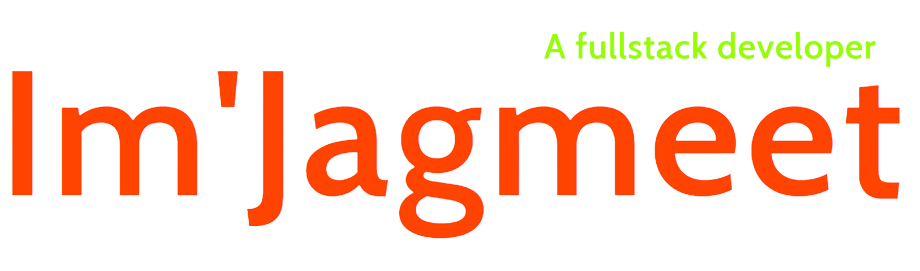
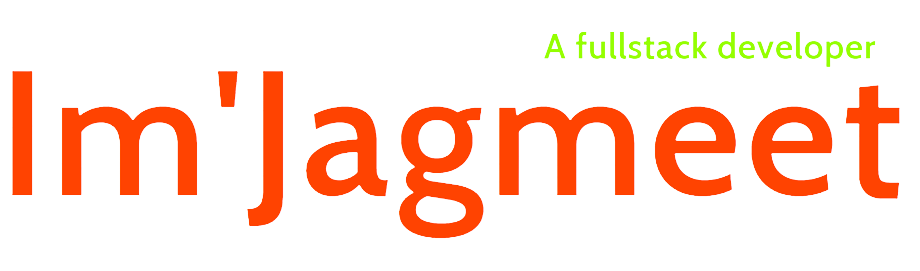
technologies stack completed

diff --git a/src/pages/About.js b/src/pages/About.js
@@ -1,65 +1,56 @@
-import React from "react";
+import React, { useState } from "react";
+import me from "../assets/me.jpeg";
 
 const About = () => {
+  const [isExpanded, setIsExpanded] = useState(false);
   return (
-    <main className=" ">
-      <h3 className=" text-3xl p-10 text-black bg-[--primary-white]">
-        Lorem ipsum dolor sit, amet consectetur adipisicing elit. Debitis,
-        suscipit iusto dolor a sequi officiis voluptas enim placeat nihil nemo
-        totam, delectus facilis, sit recusandae nulla provident! Assumenda quod
-        vitae quam possimus mollitia illum voluptatum! Laborum id distinctio
-        repudiandae voluptatum rerum accusantium aliquid deleniti quod,
-        assumenda quam debitis odit corporis quia ullam natus. Sequi
-        consequuntur quos ea cupiditate voluptatibus esse, at aut harum et.
-        Voluptatem est consequatur sit quo iste quaerat dolores ut, obcaecati
-        enim laudantium, eum ipsum pariatur error rerum eos laboriosam fugit
-        fugiat incidunt numquam eligendi delectus sapiente. Distinctio maxime
-        consequuntur ratione eius sint adipisci atque eaque iusto sapiente sit
-        fugiat obcaecati incidunt culpa facere nemo at, modi dolorum provident
-        consectetur. Veniam et dolor ut, laboriosam deserunt sapiente soluta
-        fugiat ipsam quae sit pariatur assumenda perspiciatis non, numquam, eum
-        suscipit nulla esse recusandae! Accusantium amet, dolorum consectetur
-        tenetur expedita, pariatur, molestias eveniet modi mollitia deserunt
-        asperiores! Laborum tempora aspernatur possimus voluptate consectetur
-        neque provident dignissimos officia est veniam, corrupti officiis iste
-        velit dolore dicta id! Voluptate quibusdam voluptatum quia consequuntur
-        velit beatae fugit hic in veniam quas nesciunt omnis eius recusandae
-        cumque nulla, mollitia laborum debitis autem illo inventore laboriosam
-        nam aliquam. Hic at voluptatibus, aperiam perspiciatis tenetur corrupti
-        nemo minus nisi vel quos itaque eaque facilis voluptatem commodi eveniet
-        provident maiores. Consectetur, reprehenderit temporibus magni facilis
-        atque exercitationem! Ut, amet voluptate. Amet, ex soluta dolore iusto
-        ratione accusamus magnam nam cumque possimus eaque vel omnis eum
-        deleniti cum nesciunt minus iste sit! Sequi expedita excepturi facilis
-        amet debitis culpa vero fuga iusto ipsa consequatur. Enim doloremque
-        voluptate quidem accusamus expedita vel ex facilis quam aspernatur
-        blanditiis reprehenderit aut ipsam esse deserunt ullam tempore rem
-        quasi, et at odit adipisci. Exercitationem corrupti quod sequi,
-        praesentium porro amet ipsum voluptas tempora quia dolorum, at, in
-        dignissimos. Modi sequi omnis, perferendis fugit laboriosam expedita hic
-        quisquam nisi voluptatem! Voluptas, asperiores, in quas illum nam
-        quaerat saepe mollitia eaque dolorum est voluptatem natus? Soluta, quod.
-        Tenetur a accusamus commodi cumque, earum nostrum quidem, inventore
-        fugiat iste animi obcaecati architecto debitis? Molestias,
-        necessitatibus. Aut rerum debitis perspiciatis temporibus quisquam
-        deserunt repellendus distinctio laudantium totam reiciendis, officia
-        animi ratione repellat earum nostrum voluptates enim nesciunt, tempora
-        voluptate iusto reprehenderit? Rerum quis, consequuntur magnam corrupti
-        fugit inventore aspernatur ipsam. Eius, debitis fugit enim dolores
-        provident repellat vero nesciunt, illo pariatur, cupiditate cum. Fugit
-        dicta pariatur neque quidem quis. Sapiente voluptas sit, vero corrupti
-        alias quaerat. Velit, nulla. Assumenda harum maiores, expedita molestiae
-        iusto nemo voluptas, laboriosam eaque sunt deleniti quis, delectus porro
-        architecto. Aperiam tempora sed itaque delectus esse nemo similique quo,
-        nihil distinctio pariatur dolorem aut cupiditate ipsa provident, a minus
-        dolorum nisi magni modi? Quas, unde! Aspernatur doloremque amet sed quia
-        in odit laudantium, totam autem et architecto, est minus, eveniet
-        eligendi minima? Dignissimos tempore sint consequatur, provident debitis
-        asperiores officiis sunt unde alias? Soluta minima numquam eaque quia
-        molestiae est sed quidem, voluptatibus, id expedita, libero inventore
-        voluptates similique neque laudantium nostrum dolor iusto maiores
-        perspiciatis delectus dolorum? Ut, dignissimos eos?
-      </h3>
+    <main className=" h-auto md:h-[100vh] bg-[--primary-white] flex justify-center items-center py-20">
+      <div className="h-[90%] md:w-[80%] grid grid-cols-1 md:grid-cols-2 items-center justify-items-center ">
+        <div className=" w-[40%] sm:w-[40%] md:w-[60%] lg:w-[45%]">
+          <img
+            src={me}
+            alt=""
+            className=" rounded-md shadow-lg -rotate-3 hover:rotate-0 hover:scale-105 cursor-pointer"
+          />
+        </div>
+        <div className=" w-[70%] text-black bg-[--primary-white] mt-10 md:w-[80%] md:mt-0">
+          <h1 className="text-[--primary-red1] text-3xl ">About Me</h1>
+          <h2 className="text-2xl  ">
+            A dedicated Full-Stack Developer based in Himachal Pradesh, India
+          </h2>
+          <p className="tracking-wide pt-3 ">
+            As a Junior Full Stack Developer, I possess an impressive arsenal of
+            skills in JAVASCRIPT, REACTJS, TAILWIND, REDUX TOOLKIT, NODEJs,
+            EXPRESSJs and MONGODB. I excel in designing and maintaining
+            responsive websites that offer a smooth user experience.
+            {!isExpanded && (
+              <button
+                className="text-md text-[--primary-red1]"
+                onClick={() => setIsExpanded(!isExpanded)}
+              >
+                ...Read More
+              </button>
+            )}
+            {isExpanded && (
+              <>
+                <p className="tracking-wide">
+                  My expertise lies in crafting dynamic, engaging interfaces
+                  through writing clean and optimized code and utilizing
+                  cutting-edge development tools and techniques. I am also a
+                  team player who thrives in collaborating with cross functional
+                  teams to produce outstanding web applications."
+                </p>
+                <button
+                  className="text-md text-[--primary-blue]"
+                  onClick={() => setIsExpanded(!isExpanded)}
+                >
+                  Ok, Got It
+                </button>
+              </>
+            )}
+          </p>
+        </div>
+      </div>
     </main>
   );
 };

diff --git a/src/pages/BigNavbar.js b/src/pages/BigNavbar.js
@@ -1,5 +1,7 @@
 import { useState } from "react";
 
+import { FaBars } from "react-icons/fa";
+
 const navLinks = [
   {
     id: 1,
@@ -7,17 +9,17 @@ const navLinks = [
     text: "Home",
   },
   {
-    id: 1,
+    id: 2,
     href: "/about",
     text: "About",
   },
   {
-    id: 1,
-    href: "/technologies",
-    text: "Technologies",
+    id: 3,
+    href: "/Projects",
+    text: "Projects",
   },
   {
-    id: 1,
+    id: 4,
     href: "/contact",
     text: "Contact",
   },
@@ -26,16 +28,21 @@ const navLinks = [
 const BigNavbar = () => {
   const [isHover, setIsHover] = useState(false);
   return (
-    <main className="h-10 flex items-center pt-4">
-      <div className="text-[--primary-color] w-full text-xl">Logo</div>
-      <div className="  w-full text-xl ">
+    <main className="h-10 w-[100%] flex items-center pt-4 justify-around bg-transparent ">
+      <div className="text-[--primary-red1]  text-2xl md:ml-32">
+        <h1>Logo</h1>
+      </div>
+      <div>
+        <FaBars className="text-[--primary-red1] text-2xl hover:text-[--primary-green] hover:rotate-[-90deg] transition-all duration-300 cursor-pointer hover:scale-105 md:hidden" />
+      </div>
+      <div className="w-[50%] text-xl hidden md:block ">
         <ul className="flex justify-evenly">
           {navLinks.map((links) => {
             const { id, href, text } = links;
 
             return (
               <li
-                className="text-[--primary-color] cursor-pointer hover:text-[--primary-green] ease-in  duration-200 "
+                className="text-[--primary-red1] cursor-pointer hover:text-[--primary-green] ease-in  duration-200 "
                 onMouseEnter={() => setIsHover(!isHover)}
                 onMouseLeave={() => setIsHover(!isHover)}
               >

diff --git a/src/pages/Technologies.js b/src/pages/Technologies.js
@@ -1,0 +1,44 @@
+import React from "react";
+import techLinks from "../assets/techLinks";
+
+const Technologies = () => {
+  return (
+    <main className="h-[100vh] bg-[--primary-black]">
+      <h1 className="text-[--primary-white] text-3xl text-center pt-10">
+        Technologies
+      </h1>
+      <div className="relative w-full bg-[--primary-white]  p-16 overflow-hidden mt-10">
+        <div className="flex animate absolute left-8 ">
+          <div className="flex w-50 justify-around  bg-[--primary-white] items-center">
+            {techLinks.map((item) => {
+              const { id, text, icon } = item;
+              return (
+                <h1 className="">
+                  <div className="flex justify-center items-center flex-col bg-[--primary-red1] rounded-full p-5 mx-4 w-24 h-24 text-[--primary-white] ">
+                    <p className="text-4xl">{icon}</p>
+                    <p className="text-sm text-center">{text}</p>
+                  </div>
+                </h1>
+              );
+            })}
+          </div>
+          <div className="flex w-50 justify-around  bg-[--primary-white] items-center">
+            {techLinks.map((item) => {
+              const { id, text, icon } = item;
+              return (
+                <h1 className="">
+                  <div className="flex justify-center items-center flex-col bg-[--primary-red1] rounded-full p-5 mx-4 w-24 h-24 text-[--primary-white] ">
+                    <p className="text-4xl">{icon}</p>
+                    <p className="text-sm text-center">{text}</p>
+                  </div>
+                </h1>
+              );
+            })}
+          </div>
+        </div>
+      </div>
+    </main>
+  );
+};
+
+export default Technologies;

diff --git a/public/index.html b/public/index.html
@@ -10,34 +10,13 @@
       content="Web site created using create-react-app"
     />
     <link rel="apple-touch-icon" href="%PUBLIC_URL%/logo192.png" />
-    <!--
-      manifest.json provides metadata used when your web app is installed on a
-      user's mobile device or desktop. See https://developers.google.com/web/fundamentals/web-app-manifest/
-    -->
-    <link rel="manifest" href="%PUBLIC_URL%/manifest.json" />
-    <!--
-      Notice the use of %PUBLIC_URL% in the tags above.
-      It will be replaced with the URL of the `public` folder during the build.
-      Only files inside the `public` folder can be referenced from the HTML.
 
-      Unlike "/favicon.ico" or "favicon.ico", "%PUBLIC_URL%/favicon.ico" will
-      work correctly both with client-side routing and a non-root public URL.
-      Learn how to configure a non-root public URL by running `npm run build`.
-    -->
-    <title>React App</title>
+    <link rel="manifest" href="%PUBLIC_URL%/manifest.json" />
+
+    <title>Jagmeet's PortFolio</title>
   </head>
   <body>
     <noscript>You need to enable JavaScript to run this app.</noscript>
     <div id="root"></div>
-    <!--
-      This HTML file is a template.
-      If you open it directly in the browser, you will see an empty page.
-
-      You can add webfonts, meta tags, or analytics to this file.
-      The build step will place the bundled scripts into the <body> tag.
-
-      To begin the development, run `npm start` or `yarn start`.
-      To create a production bundle, use `npm run build` or `yarn build`.
-    -->
   </body>
 </html>

diff --git a/src/App.css b/src/App.css
@@ -1,16 +1,18 @@
+@import url('https://fonts.googleapis.com/css2?family=Cabin&display=swap');
 
 body{
-  font-family: system-ui, -apple-system, BlinkMacSystemFont, 'Segoe UI', Roboto, Oxygen, Ubuntu, Cantarell, 'Open Sans', 'Helvetica Neue', sans-serif;
+  font-family: 'Cabin', sans-serif;
   background-color: var(--primary-black);
   overflow: hidden;
 }
 
 :root{
-  --primary-color: #FF4301;
-  --secondary-color:#FF4301;
+  --primary-red1: #FF4301;
+  --secondary-red2:#FF4301;
   --primary-black: #020202;
   --primary-white: #DCDCDC;
   --primary-green: #95FF00;
+  --primary-blue: #1E77EF;
 }
 
 .home--main{
@@ -24,7 +26,7 @@ body{
    position: relative;
    display: flex;
    justify-content: center;
-   align-items: end;
+   align-items: center;
     flex-direction: column;
     height: 100%;
     transform-style: preserve-3d ;
@@ -44,6 +46,18 @@ transform: translateZ(-10px) scale(2);
   z-index: -1;
 }
 
-.home--about{
+@keyframes my-icons {
+  0% { left:0}
+  100% { left:-100%}
+}
 
+.animate{
+  width: 200%;
+  animation: my-icons 10s linear infinite;
+  top:50%;
+  transform: translate(0,-50%);
+}
+.animate:hover{
+  animation-play-state: paused;
+  cursor: pointer;
 }

diff --git a/src/pages/Home.js b/src/pages/Home.js
@@ -3,27 +3,31 @@ import React from "react";
 import About from "./About";
 import BigNavbar from "./BigNavbar";
 import Img from "../assets/img.png";
-import Me from "../assets/me.jpeg";
+import Img2 from "../assets/cartoon.jpg";
+import Technologies from "./Technologies";
 
 const Home = () => {
   return (
     <>
-      <main className="home--main ">
+      <main className="home--main  ">
         <BigNavbar />
-        <header className="home--header">
+        <header className="home--header ">
           <img
-            src={Me}
+            src={Img2}
             alt=""
-            className=" home--header--img1 rounded-3xl  w-52 pb-72 "
+            className="home--header--img2 w-[80%] rounded-2xl cover  sm:hidden mb-40"
           />
           <img
             src={Img}
             alt=""
-            className="home--header--img2  pt-[25rem] w-screen "
+            className="home--header--img1  pt-[24.5rem] w-screen "
           />
         </header>
-        <section className="home--about">
+        <section>
           <About />
+        </section>
+        <section>
+          <Technologies />
         </section>
       </main>
     </>

diff --git a/src/assets/techLinks.js b/src/assets/techLinks.js
@@ -1,0 +1,24 @@
+import { AiFillHtml5 } from "react-icons/ai";
+import { FaCss3Alt, FaReact, FaNodeJs } from "react-icons/fa";
+import { SiTypescript, SiTailwindcss } from "react-icons/si";
+import { TbBrandRedux } from "react-icons/tb";
+import { BsFillBootstrapFill, BsGithub } from "react-icons/bs";
+import { SiExpress, SiPostman } from "react-icons/si";
+import { DiMongodb } from "react-icons/di";
+
+const data = [
+  { id: 1, text: "HTML5", icon: <AiFillHtml5 /> },
+  { id: 2, text: "CSS3", icon: <FaCss3Alt /> },
+  { id: 3, text: "Tailwind", icon: <SiTailwindcss /> },
+  { id: 4, text: "Bootstrap", icon: <BsFillBootstrapFill /> },
+  { id: 5, text: "React", icon: <FaReact /> },
+  { id: 6, text: "Typescript", icon: <SiTypescript /> },
+  { id: 7, text: "REDUX TOOLKIT", icon: <TbBrandRedux /> },
+  { id: 8, text: "NODE JS", icon: <FaNodeJs /> },
+  { id: 9, text: "EXPRESS JS", icon: <SiExpress /> },
+  { id: 10, text: "MONGO DB", icon: <DiMongodb /> },
+  { id: 11, text: "Github", icon: <BsGithub /> },
+  { id: 12, text: "Postman", icon: <SiPostman /> },
+];
+
+export default data;

diff --git a/src/App.js b/src/App.js
@@ -1,11 +1,12 @@
 import "./App.css";
-import { BigNavbar, Home, About } from "./pages";
+import { Home } from "./pages";
+import Technologies from "./pages/Technologies";
 
 function App() {
   return (
     <>
       <Home />
-      <About />
+      <Technologies />
     </>
   );
 }
